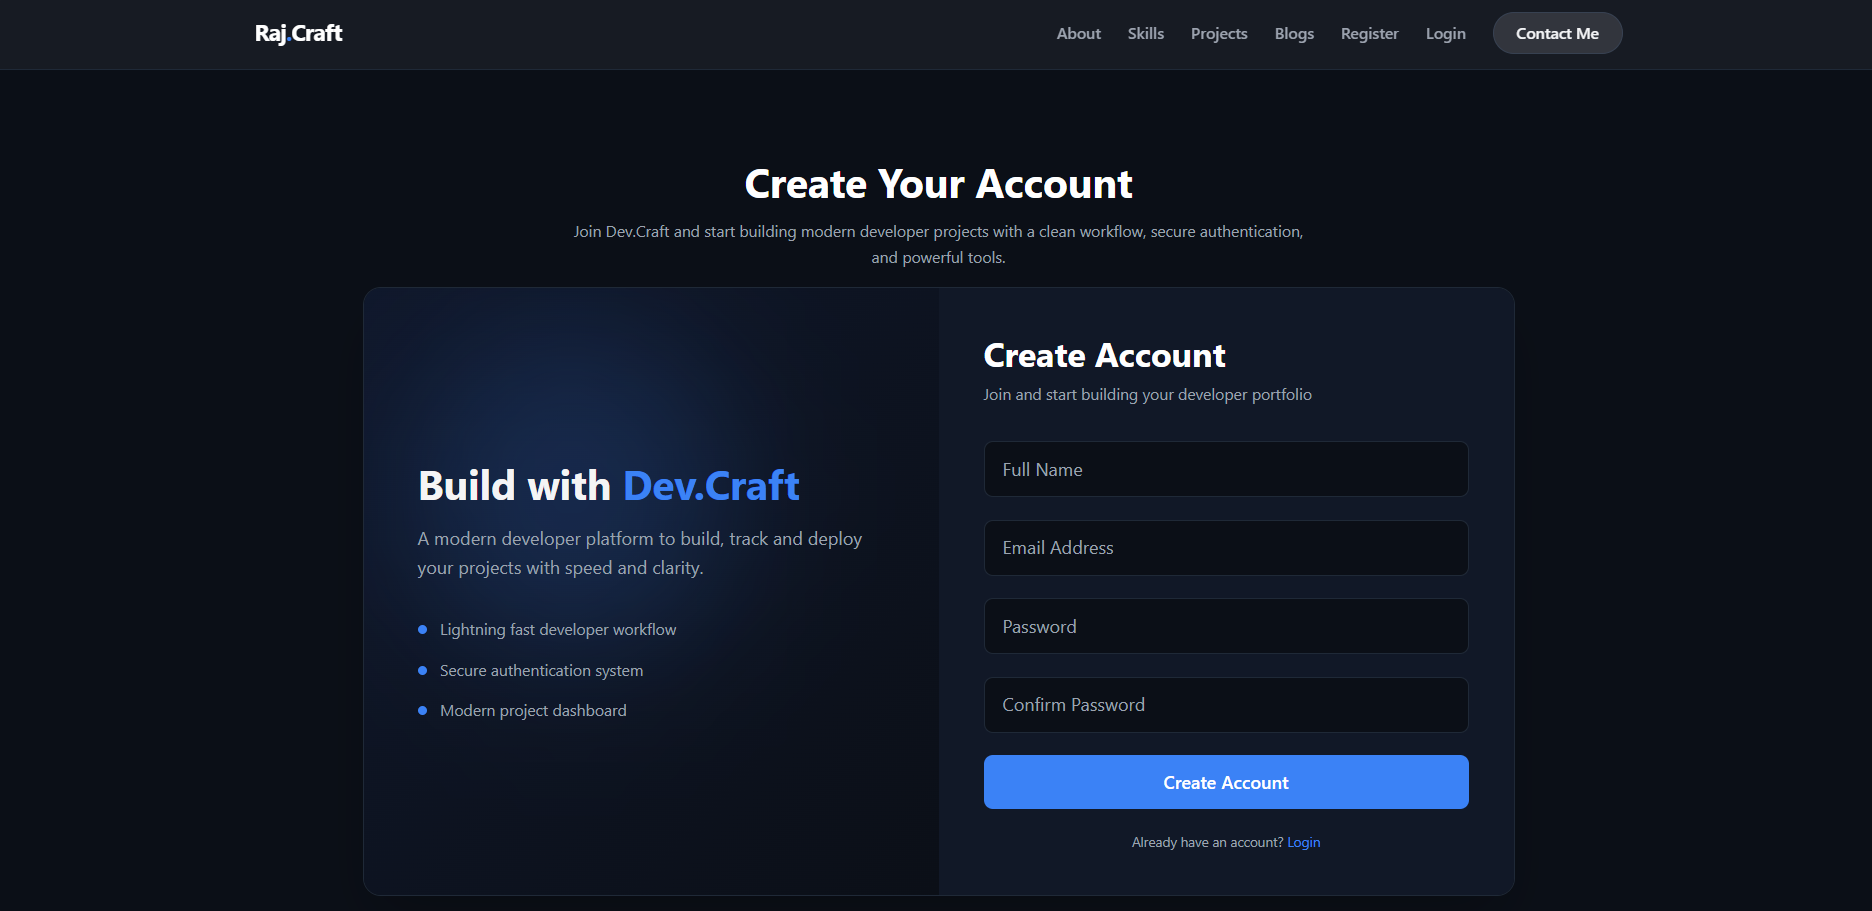
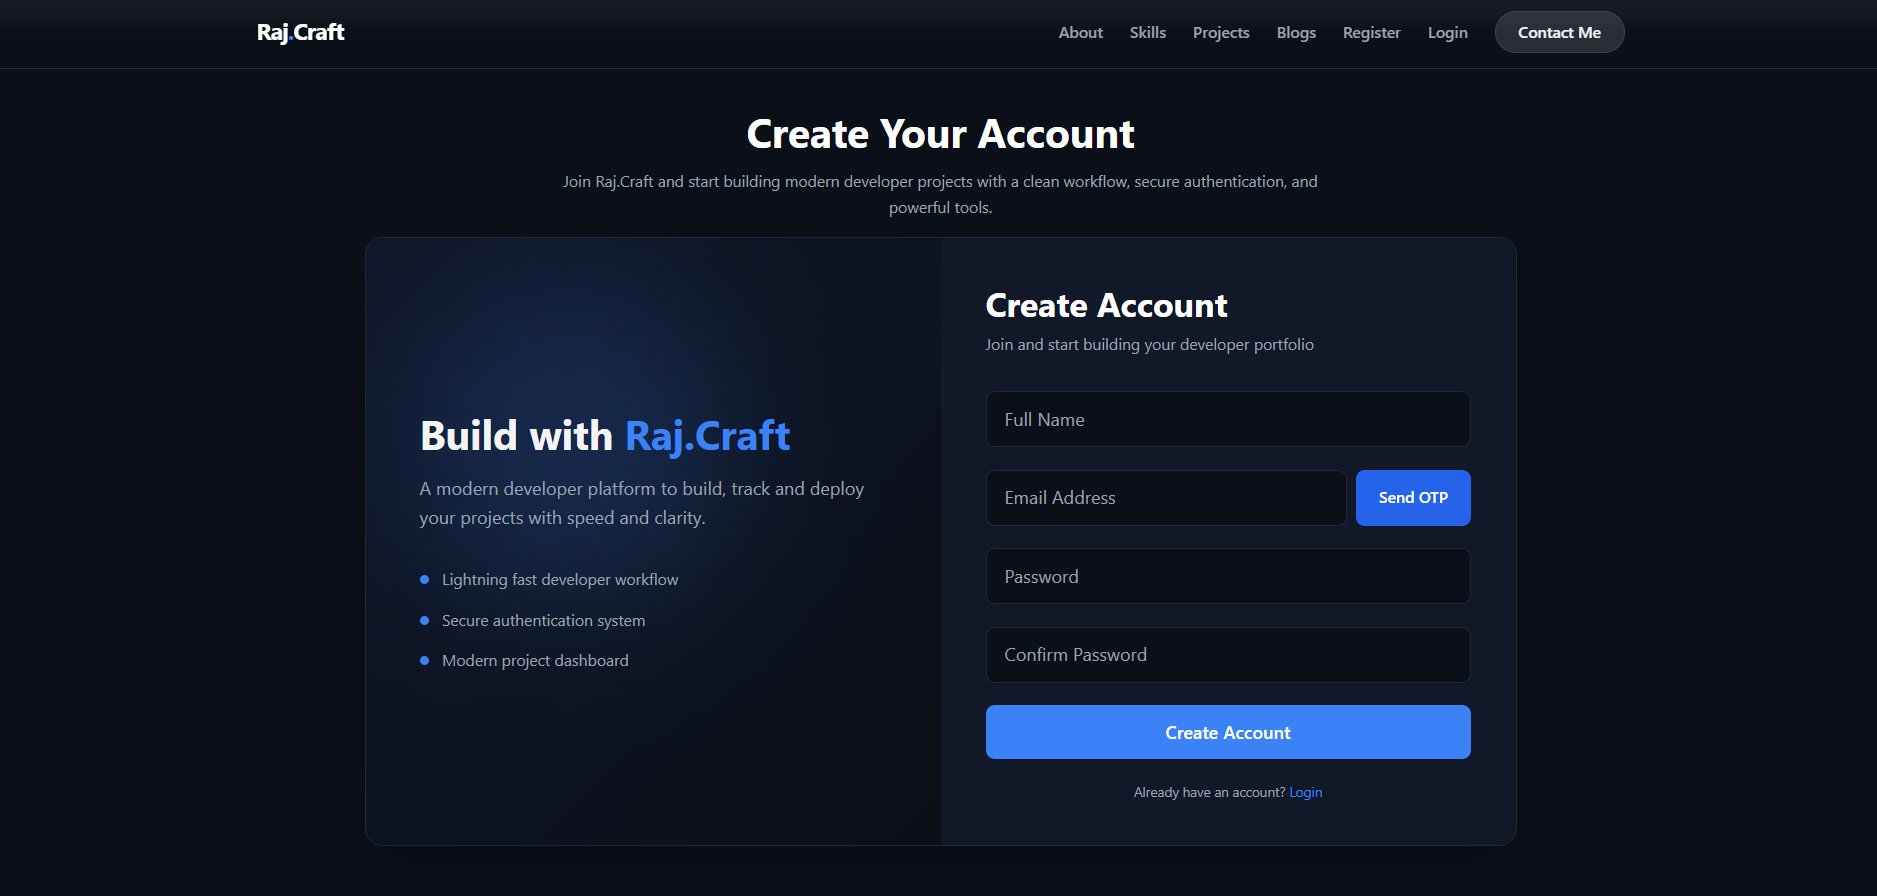
updating readme with otp email verification content

diff --git a/README.md b/README.md
@@ -49,6 +49,15 @@ The application supports two roles:
 - Persistent Login
 - Logout Functionality
 
+## Email Verification
+
+- **Resend API** — Sends OTP verification emails.
+- **OTP** — Generates a temporary verification code.
+- **Redis Cloud** — Stores OTP with an expiration time.
+- **ioredis** — Connects the application with Redis.
+- **Verification** — Validates the OTP and verifies the user's email.
+- **Auto Expiry** — OTP expires after the configured time.
+
 
 
 ## Blog System
@@ -167,12 +176,16 @@ Users have access to:
 - localStorage
 - dotenv
 - CORS
+- Resend
+- IoRedis
+- deep-email-validator
 
 
 
 ## Database
 
 - MongoDB Atlas
+- Redis Cloud
 
 
 
@@ -318,6 +331,12 @@ CLOUD_NAME=your_cloud_name
 CLOUD_API_KEY=your_api_key
 CLOUD_SECRET_KEY=your_api_secret
 
+# Resend API
+RESEND_API_KEY=your_resend_api_key
+FROM_SENDER=email_sender_domain_email_name
+
+#Redis Cloud
+REDIS_CLOUD_URL=your_redis_cloud_url
 ```
 
 Create a `.env` file inside the **client** folder.
@@ -365,6 +384,7 @@ http://localhost:3000
 # API Modules
 
 - Authentication
+- OTP Send and Verification
 - Users
 - Blogs
 - Comments
@@ -381,6 +401,7 @@ http://localhost:3000
 - Blogs
 - Messages
 - ContactMessages
+- OTP in Redis Cloud
 
 ---
 
@@ -397,7 +418,6 @@ The website is fully responsive and optimized for:
 
 # Future Improvements
 
-- Email Verification
 - Forgot Password
 - Reset Password
 - Blog Search
@@ -407,8 +427,6 @@ The website is fully responsive and optimized for:
 - Dark Mode
 - Bookmark Blogs
 - Admin Analytics Dashboard
-- Role-Based Access Control (RBAC)
-- Two-Factor Authentication (2FA)
 
 
 
